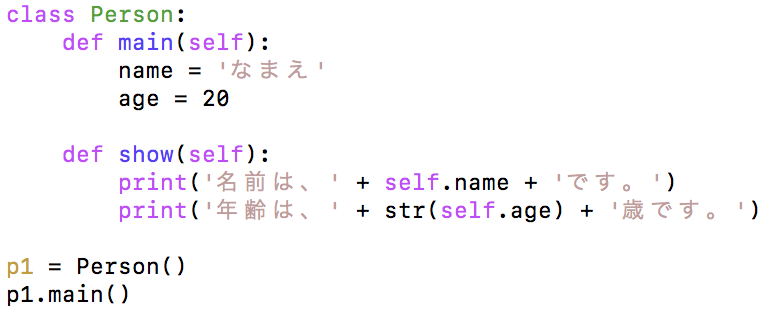
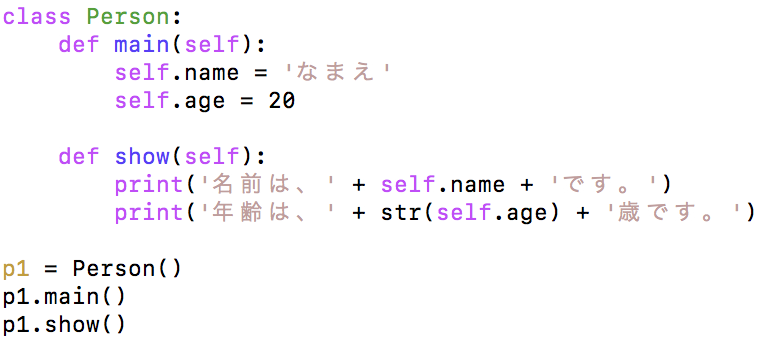
fixed bugs

diff --git a/contents/python/basic/08/prog/Hito2.py b/contents/python/basic/08/prog/Hito2.py
@@ -1,7 +1,7 @@
 class Person:
     def main(self):
-        name = 'なまえ'
-        age = 20
+        self.name = 'なまえ'
+        self.age = 20
 
     def show(self):
         print('名前は、' + self.name + 'です。')
@@ -12,7 +12,8 @@ class Person:
 
 p1 = Person()
 p1.main()
-
+temp = p1.getage()
+print('年齢は、' + temp + '歳です。')
 
 
 

diff --git a/contents/python/basic/08/prog/Hito1.py b/contents/python/basic/08/prog/Hito1.py
@@ -1,7 +1,7 @@
 class Person:
     def main(self):
-        name = 'なまえ'
-        age = 20
+        self.name = 'なまえ'
+        self.age = 20
 
     def show(self):
         print('名前は、' + self.name + 'です。')
@@ -9,7 +9,7 @@ class Person:
 
 p1 = Person()
 p1.main()
-
+p1.show()
 
 
 

diff --git a/contents/python/basic/08/prog/Hito.py b/contents/python/basic/08/prog/Hito.py
@@ -1,6 +1,7 @@
 class Person:
-    name = ''
-    age = 0
+    def main(self):
+        self.name = 'なまえ'
+        self.age = 20
 
     def show(self):
         print('名前は、' + self.name + 'です。')
@@ -18,6 +19,5 @@ p1.name = 'なまえ'
 p1.age = 20
 p1.show()
 p1.future_age(5)
-
 
 

diff --git a/contents/python/basic/08/prog/Hito0.py b/contents/python/basic/08/prog/Hito0.py
@@ -1,7 +1,7 @@
 class Person:
     def main(self):
-        name = 'なまえ'
-        age = 20
+        self.name = 'なまえ'
+        self.age = 20
         print('名前は、' + self.name + 'です。')
         print('年齢は、' + str(self.age) + '歳です。')
 
